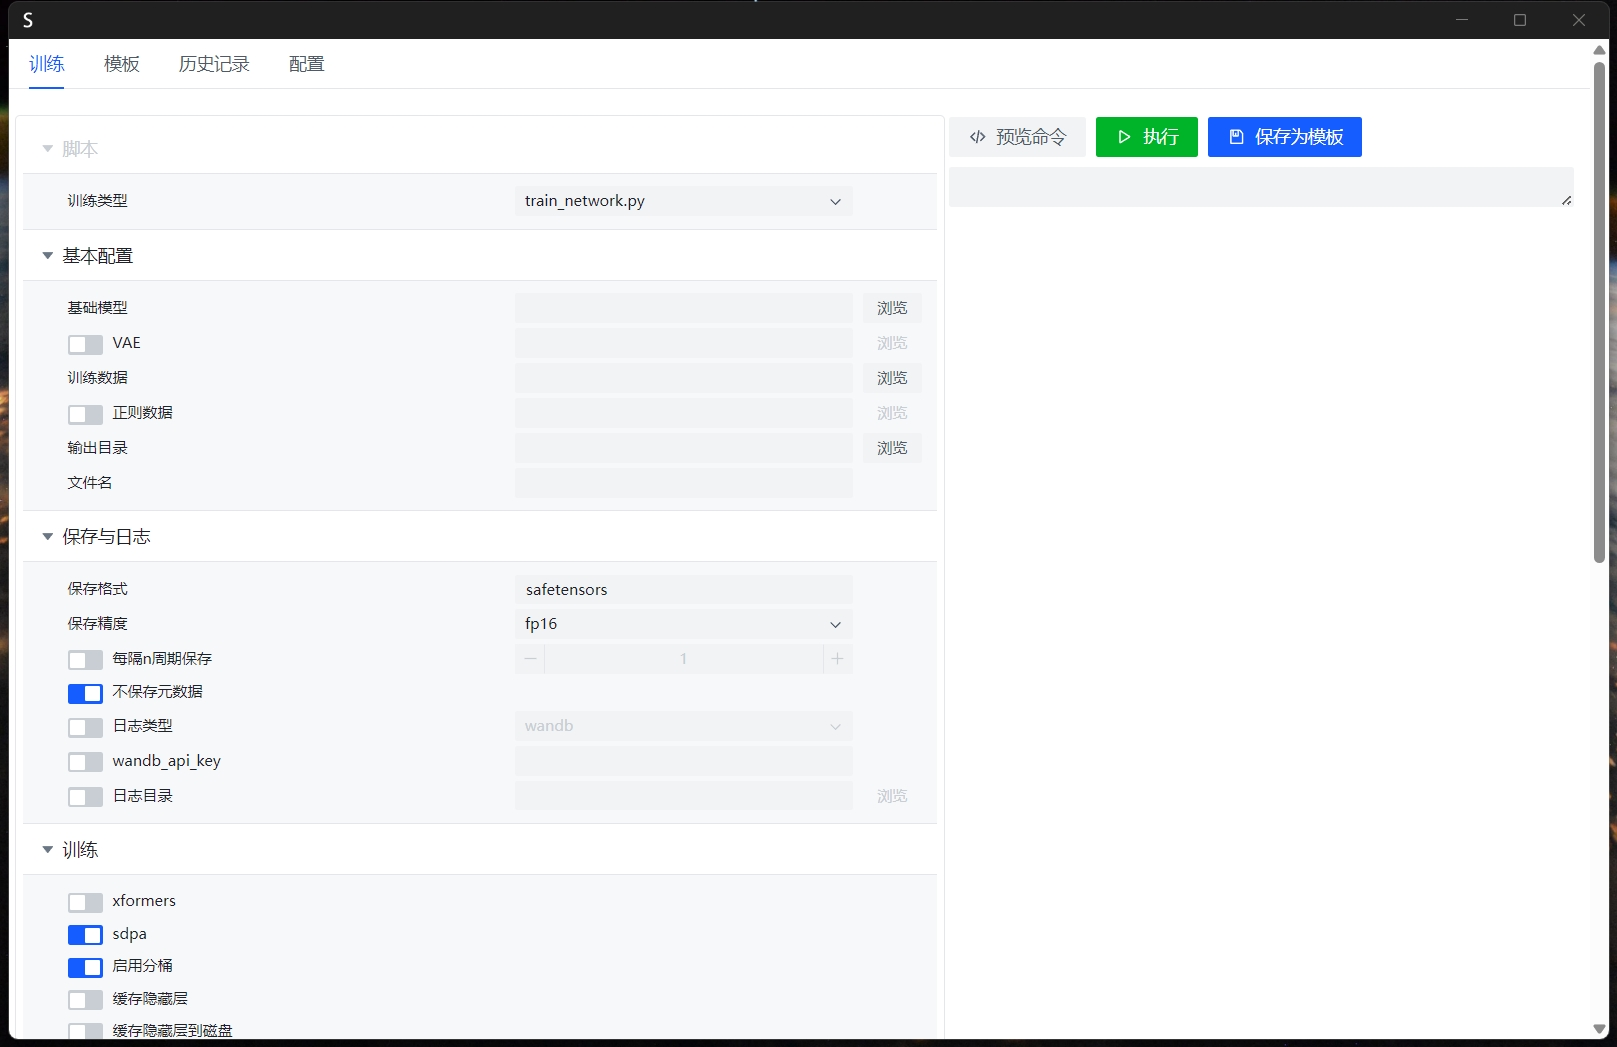
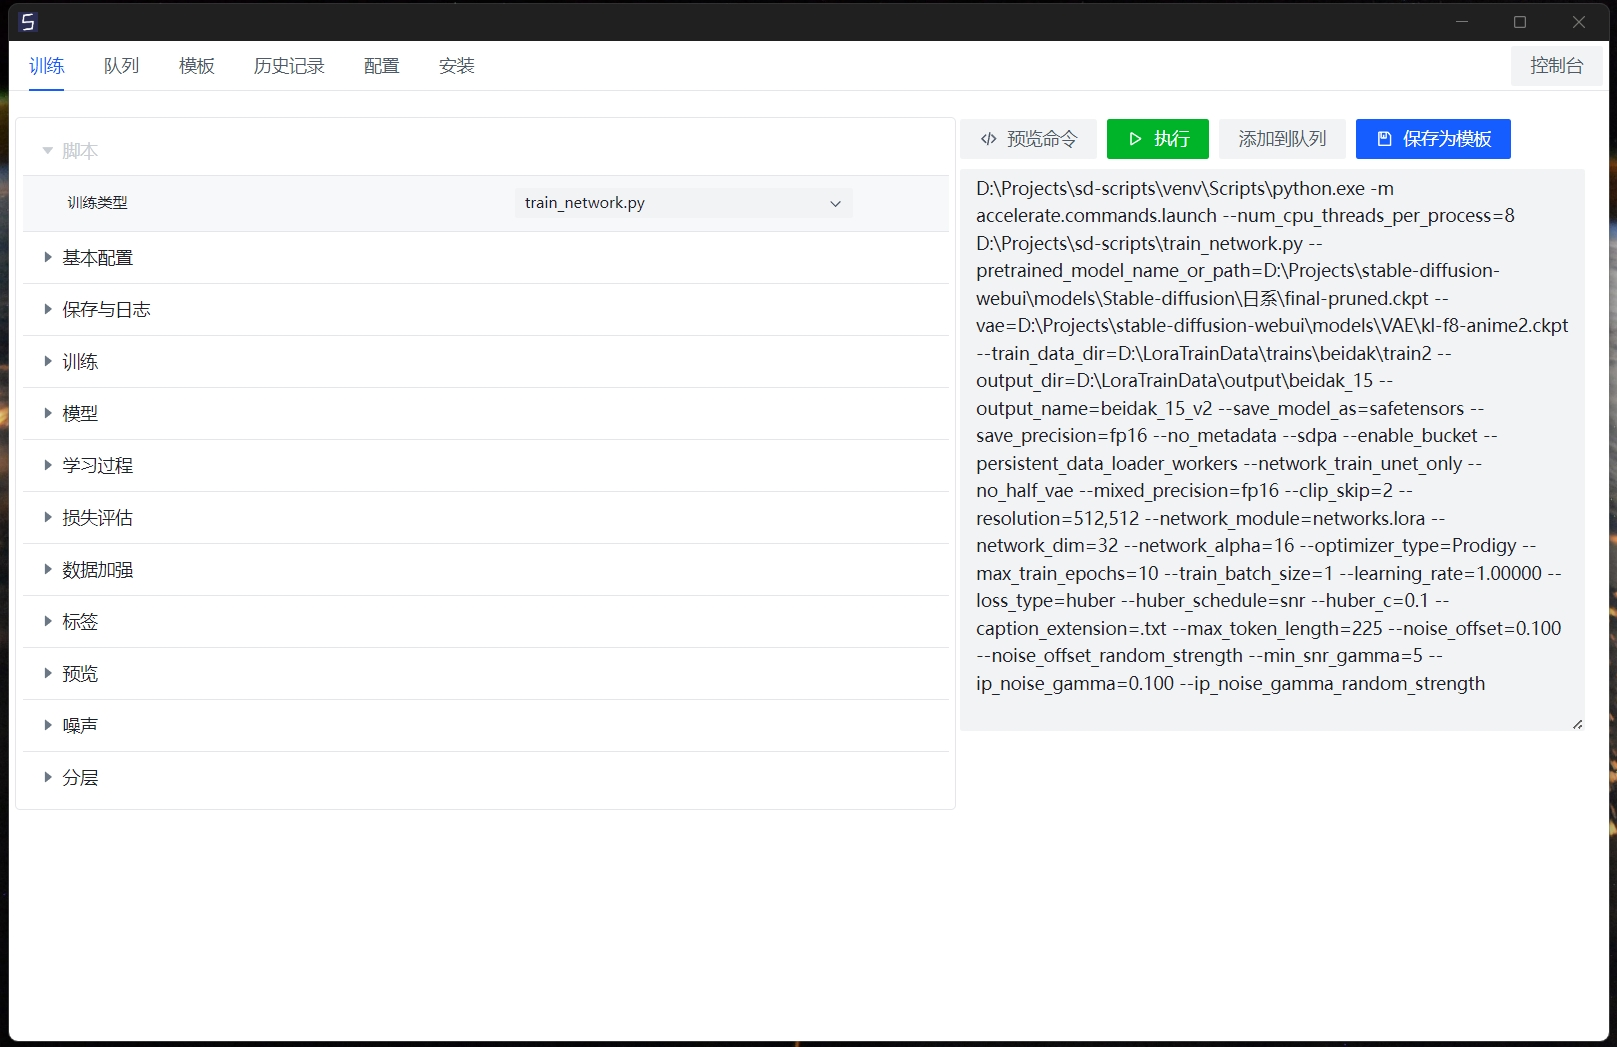
update readme and screenshot

diff --git a/README.md b/README.md
@@ -1,3 +1,27 @@
 # Sd-Scripts-App
+## 一个Sd-Scripts训练脚本的界面工具
+
+
+## 使用步骤
+
+
+### 安装Sd-Script（非必要）
+#### 打开“安装”面板，依次点击按钮
+
+
+### 配置Sd-Script路径
+#### 打开“配置”面板，配置相应的目录
+
+
+### 开始使用
+#### 打开“训练”面板，调整参数后，点击预览命令
+#### 如当前命令不合适，可再编辑，确认后点击“执行”，系统会弹出命令行界面并执行脚本
+
+
+### 更多功能
+#### 队列功能，可以保存配置训练脚本再执行（“全部执行”目前有bug，请不要使用）
+#### 模板功能，常用的配置可以保存为模板，快速再使用
+#### 历史记录，执行过的命令，以及文件保存位置，会保留在历史记录中
+
 
 ![Screenshot](https://github.com/kurilee/sd-scripts-app/blob/main/screenshot.png?raw=true)
